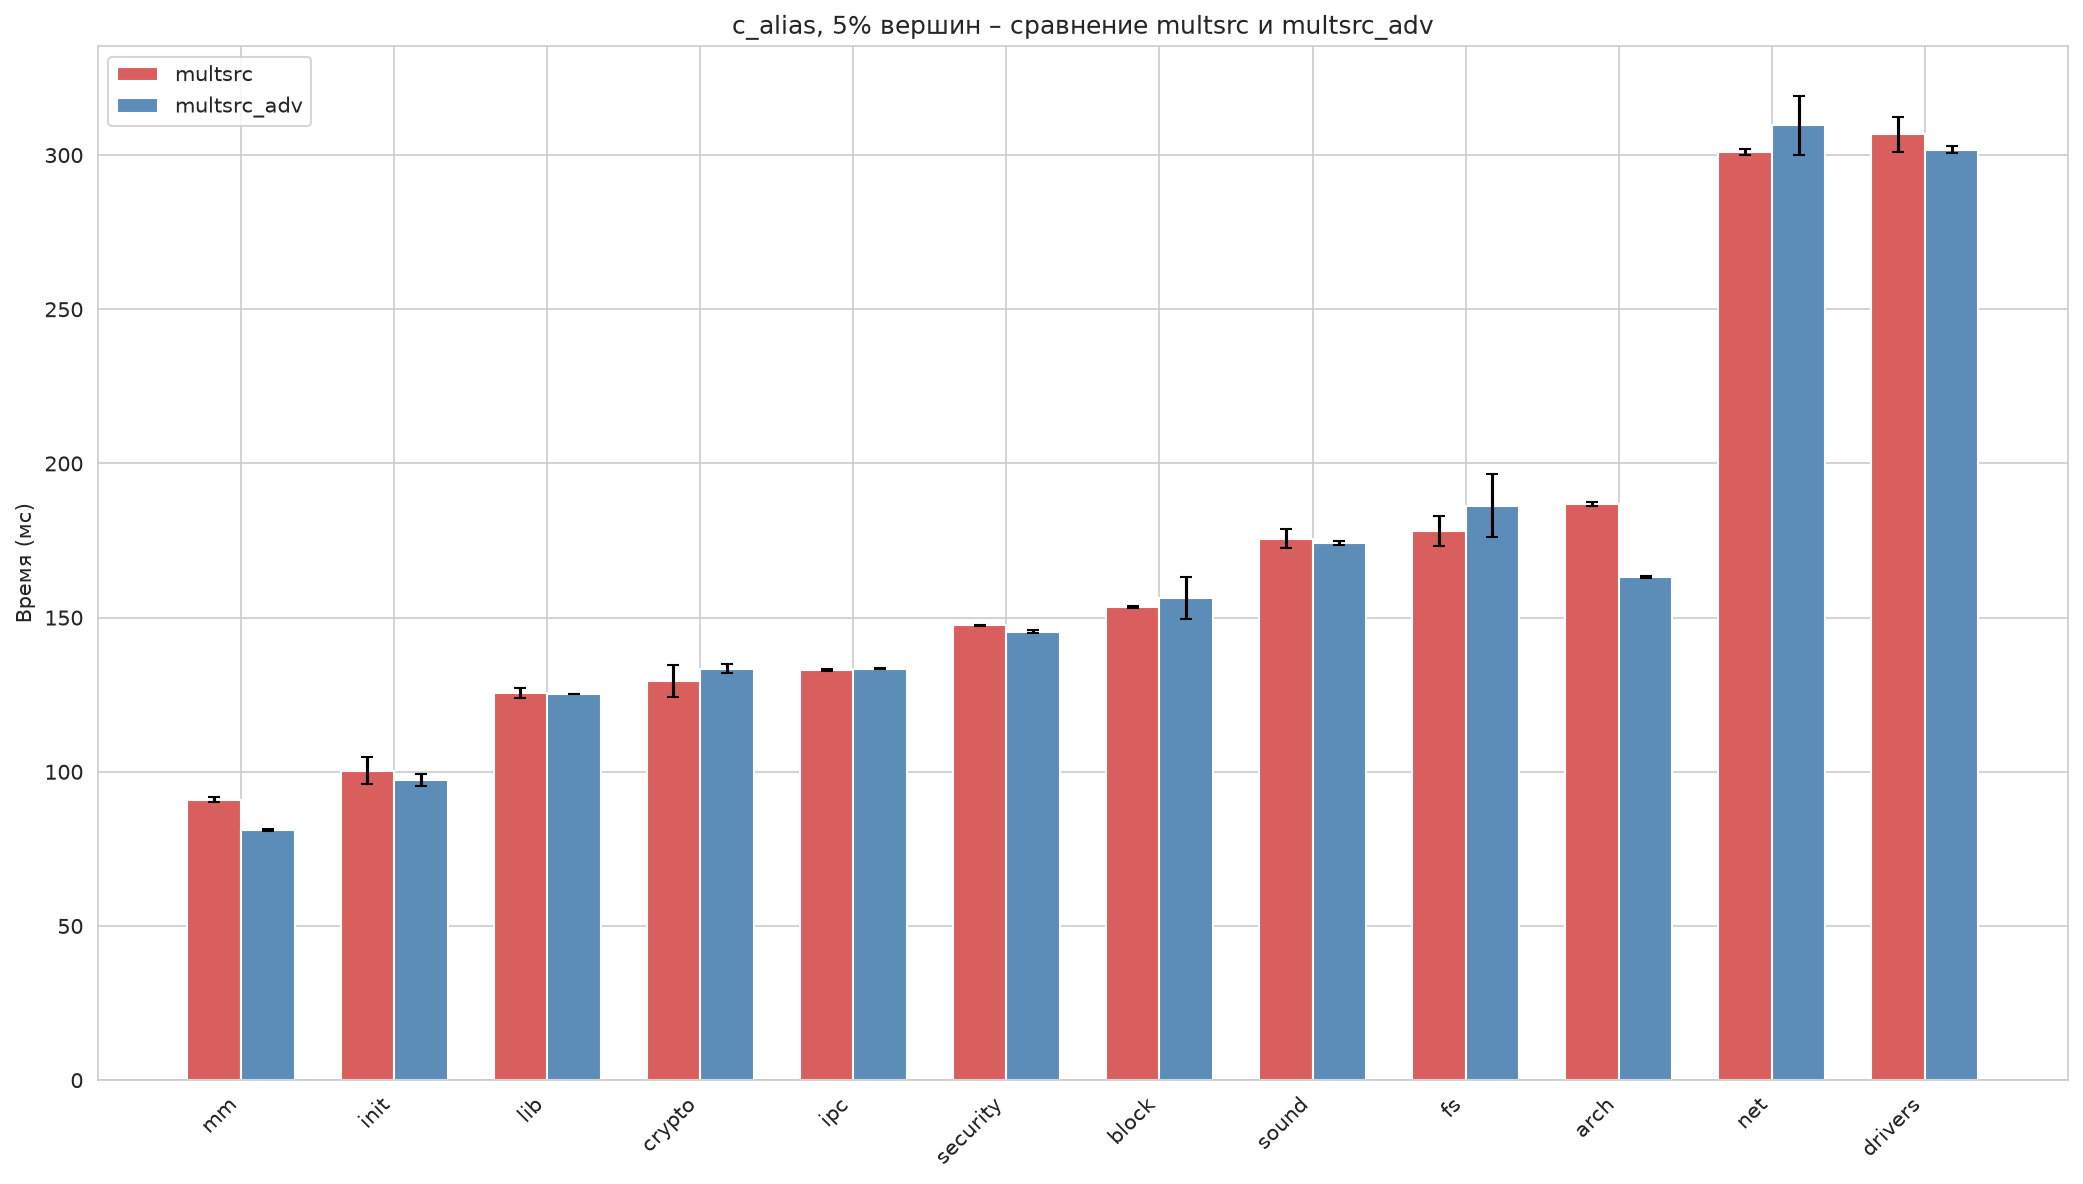
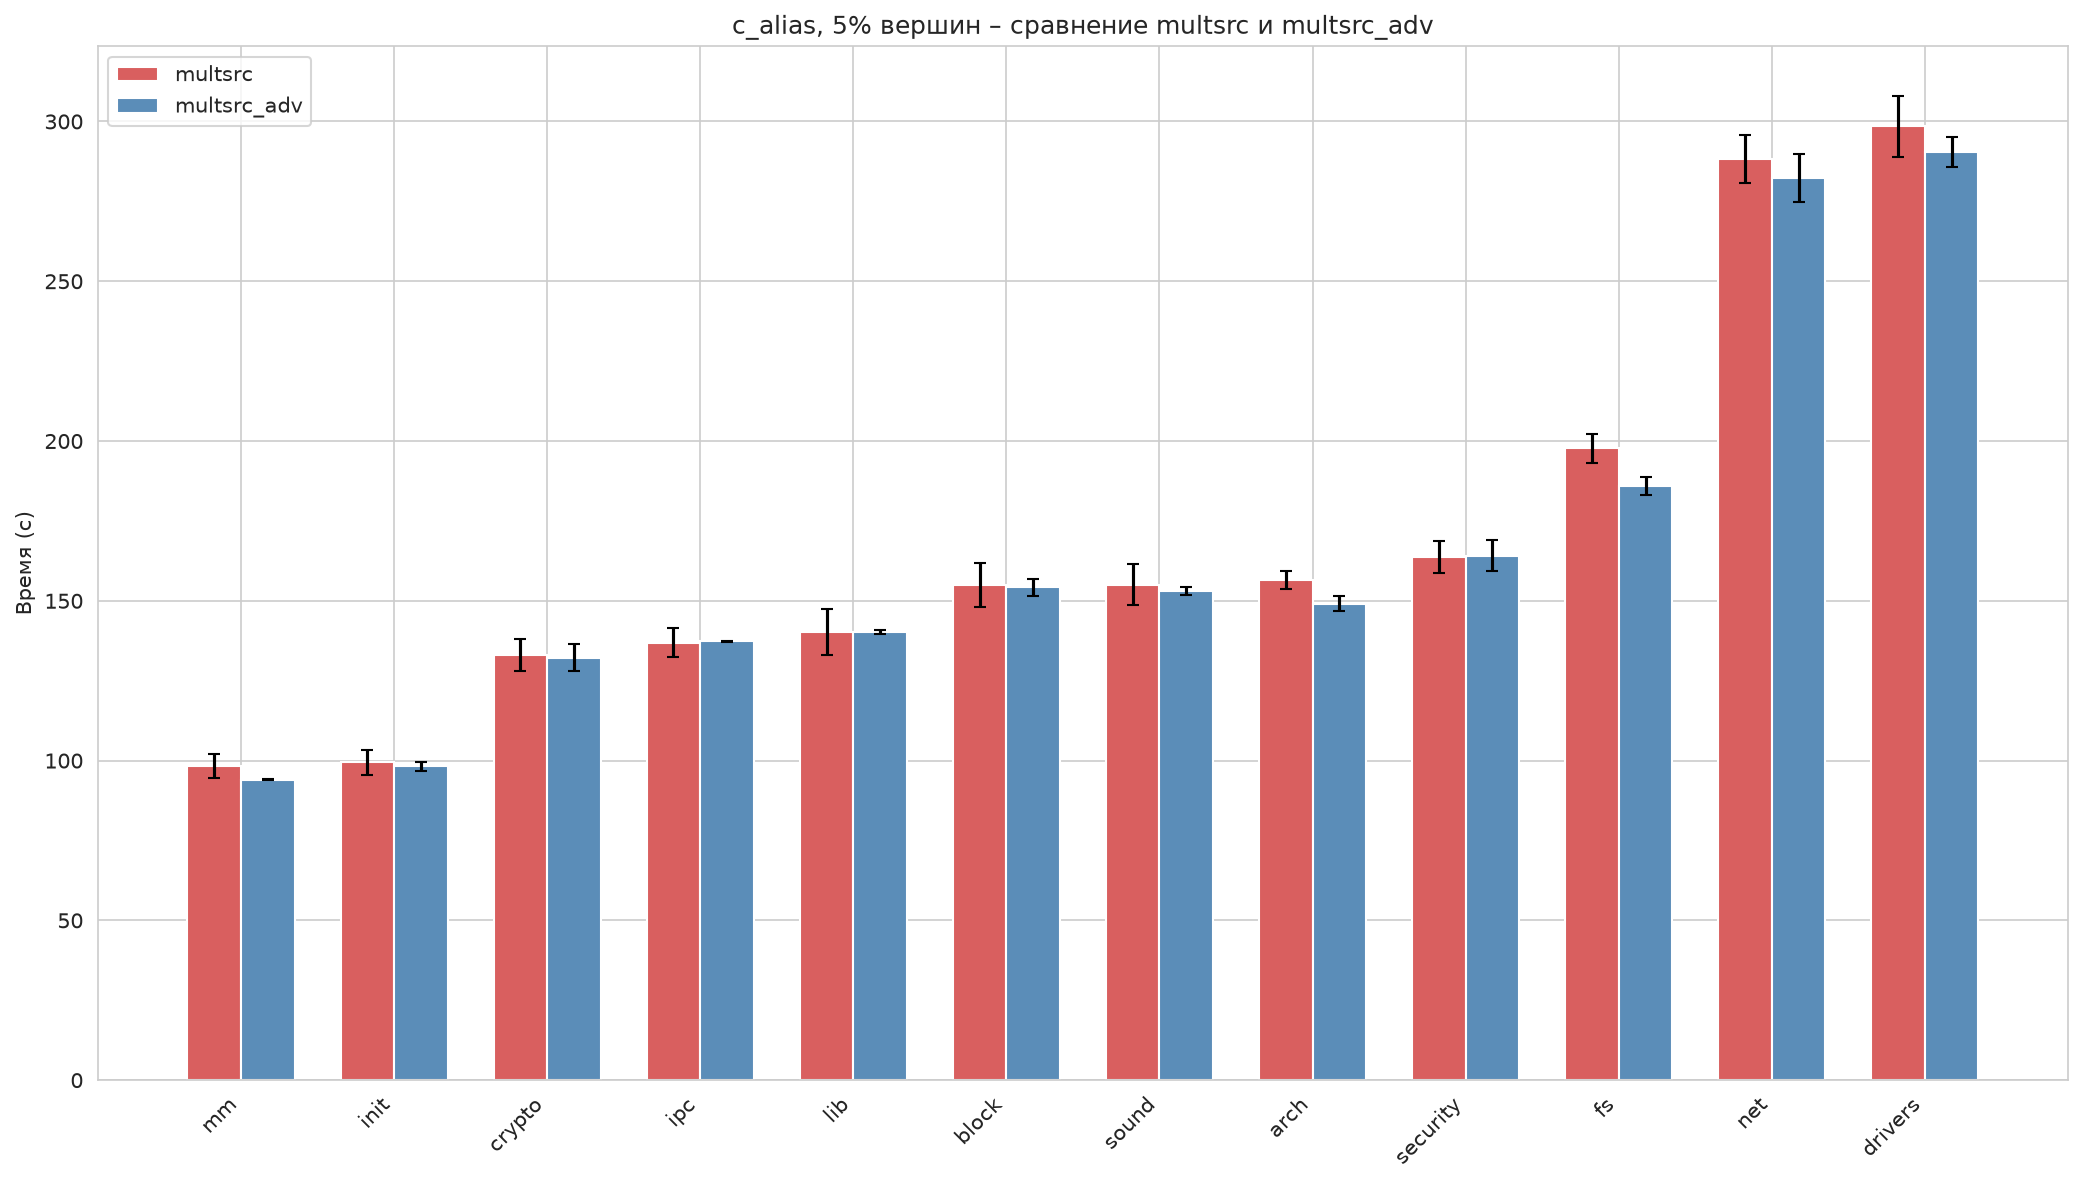
fix visuals, add visualize script

diff --git a/visualize.py b/visualize.py
@@ -1,0 +1,276 @@
+import pandas as pd
+import numpy as np
+import matplotlib.pyplot as plt
+import seaborn as sns
+import re
+from pathlib import Path
+
+algo_columns = ['multsrc', 'multsrc_adv', 'multsrc_adv -e', 'multsrc_adv -f',
+                'multsrc_adv -l', 'multsrc_adv w',
+                'multsrc_adv -b', 'multsrc_adv -elbfw']
+
+def parse_value(val):
+    if pd.isna(val) or val.strip() in ['', '-']:
+        return np.nan, np.nan
+    if '±' in s:
+        parts = s.split('±')
+        mean = float(parts[0].strip())
+        std = float(parts[1].strip())
+        return mean, std
+    else:
+        try:
+            return float(s.strip()), 0.0
+        except:
+            return np.nan, np.nan
+
+def parse_csv(file_path):
+    with open(file_path, 'r', encoding='utf-8') as f:
+        lines = [line.strip() for line in f if line.strip() != '']
+
+    header_indices = [i for i, line in enumerate(lines) if 'графы \\ алгоритмы' in line]
+    data_rows = []
+
+    for h_idx in header_indices:
+        header_line = lines[h_idx]
+        header_cols = [col.strip() for col in header_line.split(',')]
+        algo_indices = []
+        for algo in algo_columns:
+            found = False
+            for i, col in enumerate(header_cols):
+                if algo.replace(' ', '') in col.replace(' ', ''):
+                    algo_indices.append(i)
+                    found = True
+                    break
+            if not found:
+                algo_indices.append(-1)
+
+        for row_idx in range(h_idx + 1, len(lines)):
+            if row_idx in header_indices:
+                break
+            line = lines[row_idx]
+            if line == '':
+                continue
+            parts = line.split(',')
+            if len(parts) < 5:
+                continue
+            graph = parts[0].strip()
+            if graph.startswith('note:') or graph.startswith('"note:'):
+                continue
+            if graph == '':
+                continue
+            try:
+                percent = int(parts[2].strip())
+                sample = int(parts[3].strip())
+            except ValueError:
+                continue
+            if len(parts) >= 5:
+                graph_type = parts[4].strip()
+            else:
+                graph_type = 'unknown'
+            if graph_type == '':
+                if graph in ['init', 'arch', 'block', 'crypto', 'drivers', 'mm', 'ipc', 'lib', 'security', 'sound', 'fs', 'net']:
+                    graph_type = 'c_alias'
+                elif graph in ['go_hierarchy', 'go', 'taxonomy_hierarchy']:
+                    graph_type = 'rdf'
+                else:
+                    graph_type = 'java'
+
+            for idx, algo in zip(algo_indices, algo_columns):
+                if idx == -1 or idx >= len(parts):
+                    mean, std = np.nan, np.nan
+                else:
+                    mean, std = parse_value(parts[idx])
+                data_rows.append({
+                    'graph': graph,
+                    'graph_type': graph_type,
+                    'percent': percent,
+                    'sample': sample,
+                    'algorithm': algo,
+                    'mean': mean,
+                    'std': std
+                })
+
+    df = pd.DataFrame(data_rows)
+    df = df.dropna(subset=['mean'], how='all')
+    return df
+
+file_path = 'result.csv'
+df = parse_csv(file_path)
+print("Размер DataFrame:", df.shape)
+print("Уникальные проценты:", df['percent'].unique())
+print("Уникальные выборки:", df['sample'].unique())
+print("Типы графов:", df['graph_type'].unique())
+
+if df.empty:
+    print("DataFrame пуст! Проверьте файл.")
+    exit()
+
+df['algorithm'] = pd.Categorical(df['algorithm'], categories=algo_columns, ordered=True)
+
+out_dir = Path('visuals')
+out_dir.mkdir(exist_ok=True)
+
+types = df['graph_type'].unique()
+percentages = df['percent'].unique()
+
+sns.set_style('whitegrid')
+sns.set_palette('husl')
+
+df_avg_std = df.groupby(['graph_type', 'graph', 'percent', 'algorithm'], observed=True).agg({
+    'mean': 'mean',
+    'std': 'mean'
+}).reset_index()
+
+for gtype in types:
+    for pct in percentages:
+        subset = df_avg_std[(df_avg_std['graph_type'] == gtype) & (df_avg_std['percent'] == pct)]
+        if subset.empty:
+            continue
+        graphs = subset['graph'].unique()
+        plt.figure(figsize=(14, 7))
+        for graph in graphs:
+            data = subset[subset['graph'] == graph].sort_values('algorithm')
+            if data.empty:
+                continue
+            plt.errorbar(x=data['algorithm'].astype(str), y=data['mean'],
+                         yerr=data['std'], marker='o', capsize=3, label=graph, linestyle='-', linewidth=1)
+        plt.xticks(rotation=45, ha='right')
+        plt.xlabel('Алгоритм')
+        plt.ylabel('Время (с)')
+        plt.title(f'{gtype}, {pct}% вершин – сравнение алгоритмов по графам')
+        plt.legend(bbox_to_anchor=(1.05, 1), loc='upper left')
+        plt.tight_layout()
+        plt.savefig(out_dir / f'pointplot_{gtype}_{pct}.png', dpi=150, bbox_inches='tight')
+        plt.close()
+
+color_multsrc = '#D95F5F'      # приглушённый красный
+color_multsrc_adv = '#5B8DB8'  # приглушённый синий
+
+for gtype in types:
+    for pct in percentages:
+        subset = df_avg_std[(df_avg_std['graph_type'] == gtype) & (df_avg_std['percent'] == pct)]
+        multsrc = subset[subset['algorithm'] == 'multsrc']
+        adv = subset[subset['algorithm'] == 'multsrc_adv']
+        if multsrc.empty or adv.empty:
+            continue
+        graphs = multsrc.groupby('graph')['mean'].mean().sort_values().index
+        x = np.arange(len(graphs))
+        width = 0.35
+        fig, ax = plt.subplots(figsize=(14, 8))
+        m_means = [multsrc[multsrc['graph']==g]['mean'].values[0] for g in graphs]
+        m_stds  = [multsrc[multsrc['graph']==g]['std'].values[0] for g in graphs]
+        a_means = [adv[adv['graph']==g]['mean'].values[0] for g in graphs]
+        a_stds  = [adv[adv['graph']==g]['std'].values[0] for g in graphs]
+        ax.bar(x - width/2, m_means, width, yerr=m_stds,
+               label='multsrc', color=color_multsrc, capsize=3, error_kw={'ecolor': 'black'})
+        ax.bar(x + width/2, a_means, width, yerr=a_stds,
+               label='multsrc_adv', color=color_multsrc_adv, capsize=3, error_kw={'ecolor': 'black'})
+        if gtype == 'java':
+            ax.set_yscale('log')
+            ylabel = 'Время (с) – логарифмическая шкала'
+        else:
+            ylabel = 'Время (с)'
+        ax.set_xticks(x)
+        ax.set_xticklabels(graphs, rotation=45, ha='right')
+        ax.set_ylabel(ylabel)
+        ax.set_title(f'{gtype}, {pct}% вершин – сравнение multsrc и multsrc_adv')
+        ax.legend()
+        plt.tight_layout()
+        plt.savefig(out_dir / f'multsrc_vs_adv_{gtype}_{pct}.png', dpi=150, bbox_inches='tight')
+        plt.close()
+
+allowed_graphs_by_type = {
+    'c_alias': ['arch', 'crypto', 'drivers', 'fs', 'init', 'ipc', 'net', 'security'],
+    'java': ['avrora', 'batik', 'commons_io', 'commons_lang3', 'fop',
+             'mockito', 'sunflow', 'tomcat'],
+}
+
+for gtype in types:
+    for pct in percentages:
+        subset = df_avg_std[(df_avg_std['graph_type'] == gtype) & (df_avg_std['percent'] == pct)]
+        others = subset[subset['algorithm'] != 'multsrc']
+        if others.empty:
+            continue
+        # Фильтруем графы, если для данного типа задан список
+        if gtype in allowed_graphs_by_type:
+            allowed = allowed_graphs_by_type[gtype]
+            others = others[others['graph'].isin(allowed)]
+            if others.empty:
+                continue
+            # Сортируем в порядке, заданном в списке
+            others['graph'] = pd.Categorical(others['graph'], categories=allowed, ordered=True)
+            others = others.sort_values('graph')
+        plt.figure(figsize=(14, 7))
+        sns.barplot(data=others, x='graph', y='mean', hue='algorithm', palette='Blues_d')
+        plt.xticks(rotation=45, ha='right')
+        plt.ylabel('Время (с)')
+        plt.title(f'{gtype}, {pct}% вершин – оптимизированные алгоритмы (кроме multsrc)')
+        plt.legend(bbox_to_anchor=(1.05, 1), loc='upper left')
+        plt.tight_layout()
+        plt.savefig(out_dir / f'others_{gtype}_{pct}.png', dpi=150, bbox_inches='tight')
+        plt.close()
+
+java_df = df[df['graph_type'] == 'java']
+if not java_df.empty:
+    java_avg = java_df.groupby(['graph', 'percent', 'algorithm'], observed=True)['mean'].mean().reset_index()
+    java_std = java_df.groupby(['graph', 'percent', 'algorithm'], observed=True)['std'].mean().reset_index()
+    java_avg_std = java_avg.merge(java_std, on=['graph', 'percent', 'algorithm'], suffixes=('', '_std'))
+
+    for pct in java_avg_std['percent'].unique():
+        subset = java_avg_std[java_avg_std['percent'] == pct]
+        subset = subset[subset['mean'] > 0]
+        if subset.empty:
+            continue
+        plt.figure(figsize=(16, 8))
+        graphs = subset['graph'].unique()
+        for graph in graphs:
+            data = subset[subset['graph'] == graph].sort_values('algorithm')
+            if data.empty:
+                continue
+            plt.errorbar(x=data['algorithm'].astype(str), y=data['mean'],
+                         yerr=data['std'], marker='o', capsize=3, label=graph,
+                         linestyle='-', linewidth=1.5, alpha=0.8)
+        plt.yscale('log')
+        plt.xticks(rotation=45, ha='right')
+        plt.xlabel('Алгоритм')
+        plt.ylabel('Время (с) – логарифмическая шкала')
+        plt.title(f'Java-графы, {pct}% вершин – все алгоритмы (log scale, точки)')
+        plt.grid(True, which='both', linestyle='--', linewidth=0.5)
+        plt.legend(bbox_to_anchor=(1.05, 1), loc='upper left')
+        plt.tight_layout()
+        plt.savefig(out_dir / f'java_logscale_points_{pct}.png', dpi=150, bbox_inches='tight')
+        plt.close()
+
+if not java_df.empty:
+    for pct in java_avg_std['percent'].unique():
+        subset = java_avg_std[java_avg_std['percent'] == pct]
+        subset = subset[subset['mean'] > 0]
+        if subset.empty:
+            continue
+        graphs = subset['graph'].unique()
+        n_graphs = len(graphs)
+        cols = 4
+        rows = (n_graphs + cols - 1) // cols
+        fig, axes = plt.subplots(rows, cols, figsize=(16, 4*rows))
+        if n_graphs == 1:
+            axes = [axes]
+        else:
+            axes = axes.flatten()
+        for i, graph in enumerate(graphs):
+            data = subset[subset['graph'] == graph].sort_values('algorithm')
+            ax = axes[i]
+            sns.barplot(data=data, x='algorithm', y='mean', ax=ax, palette='Blues_d')
+            ax.set_yscale('log')
+            ax.set_title(graph, fontsize=10)
+            ax.set_xlabel('')
+            ax.set_ylabel('Время (с)')
+            ax.tick_params(axis='x', rotation=45, labelsize=8)
+        for j in range(i+1, len(axes)):
+            fig.delaxes(axes[j])
+        plt.suptitle(f'Java-графы, {pct}% вершин – столбцы (логарифмическая шкала)', fontsize=16)
+        plt.tight_layout()
+        plt.savefig(out_dir / f'java_barlog_facet_{pct}.png', dpi=150, bbox_inches='tight')
+        plt.close()
+
+print(f"Все графики сохранены в папку '{out_dir}/'")
+print("Уникальные проценты в итоговом DataFrame:", df['percent'].unique())
